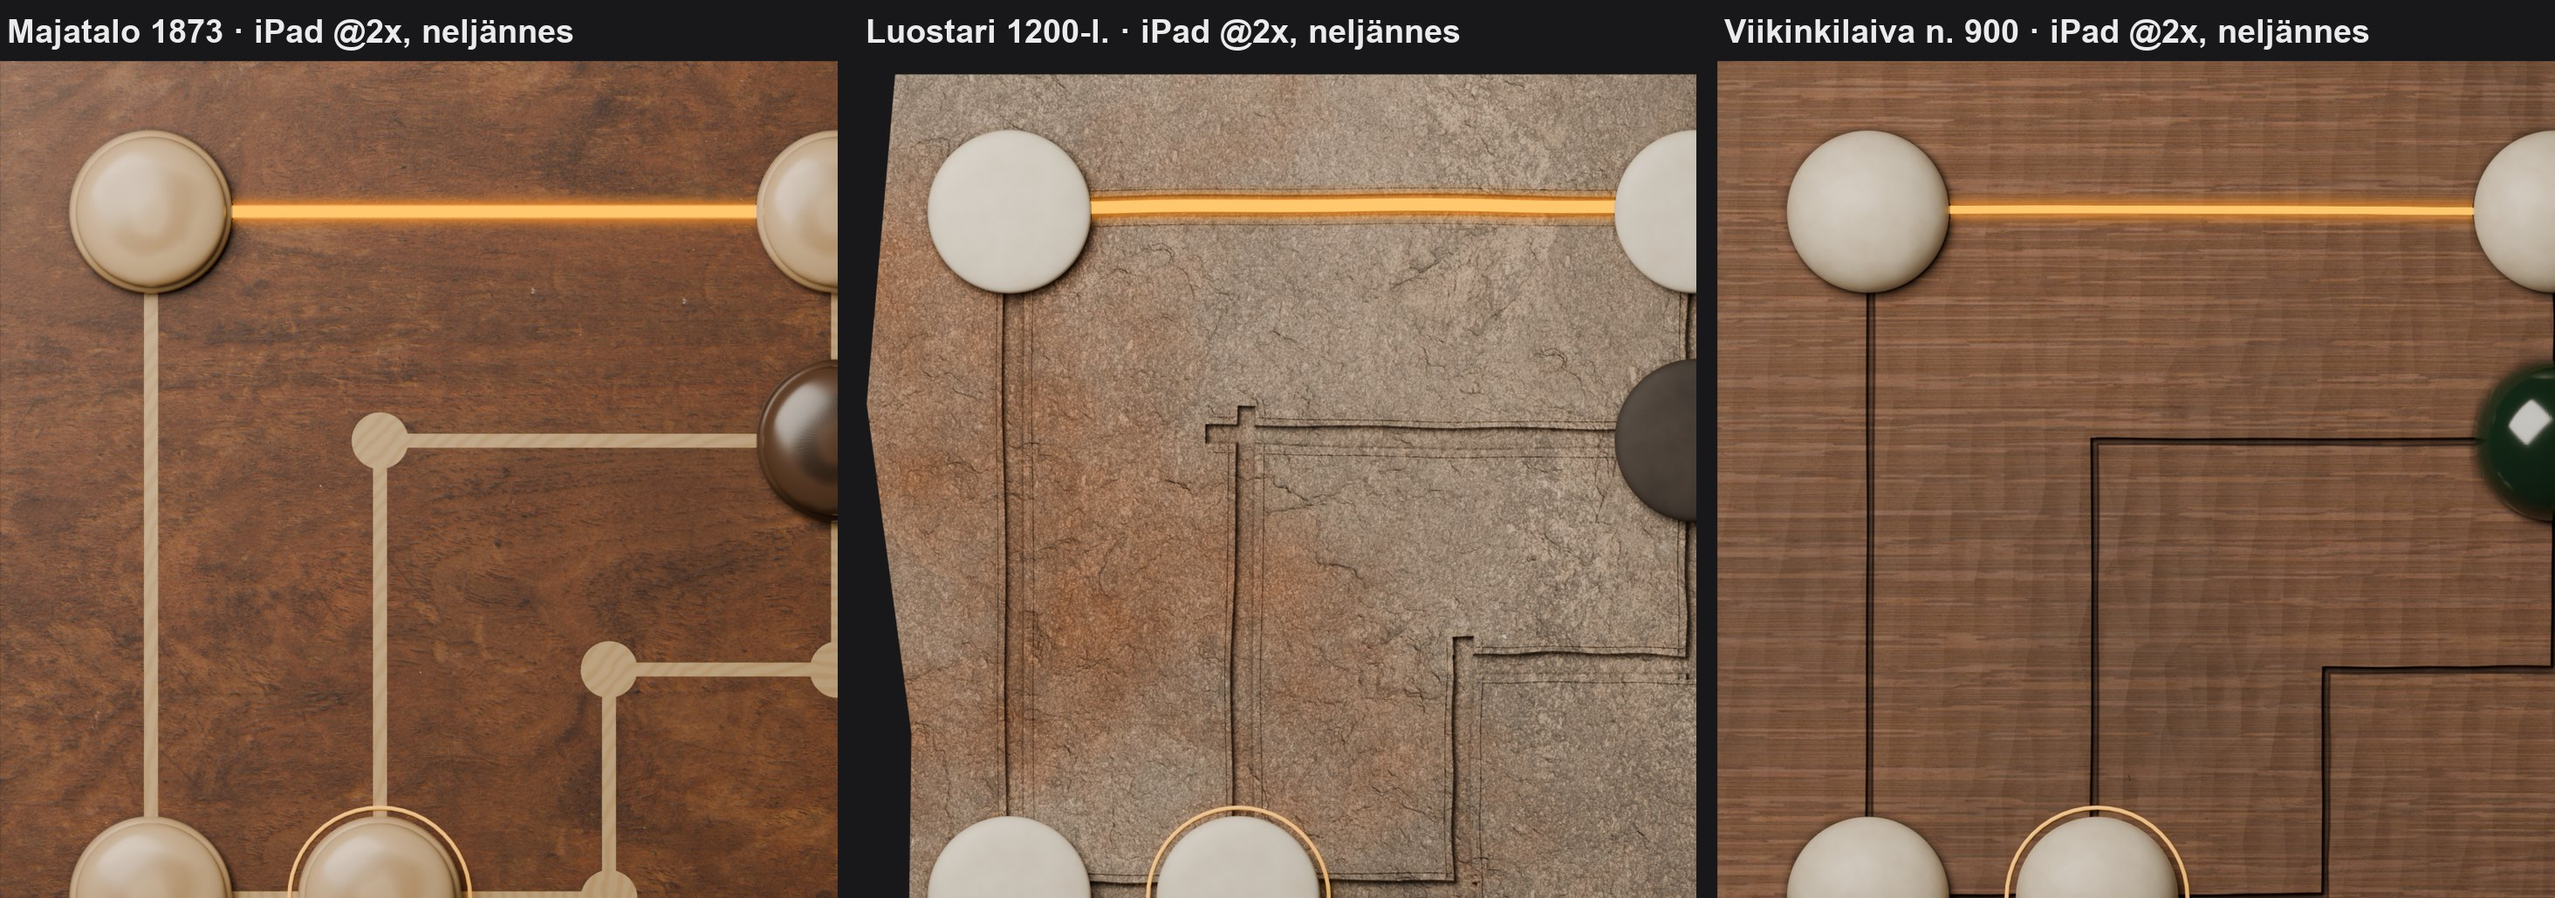
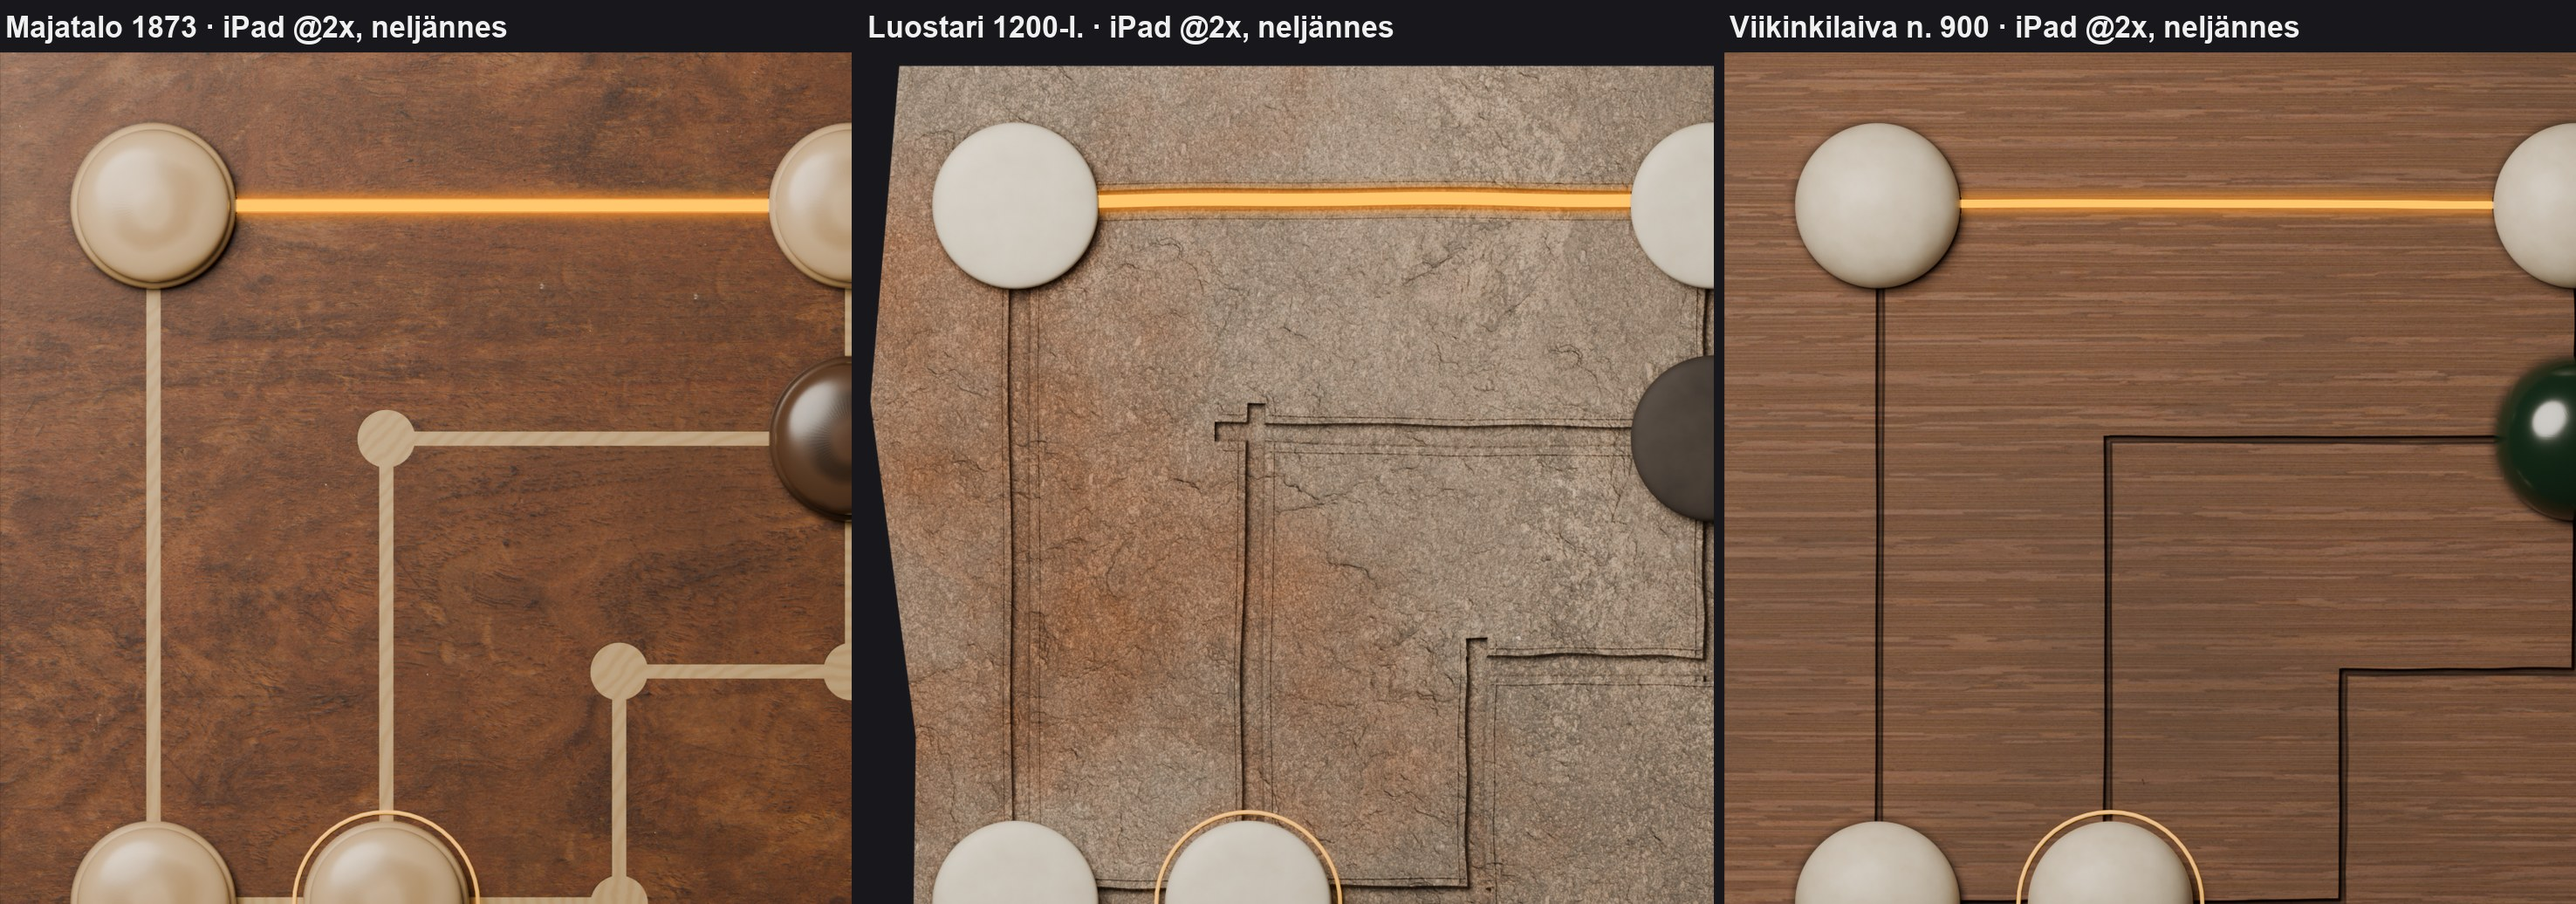
Linnanrakentaja: myllyn laudat v2 — pyöreä avainvalo (lasin kiilto), viikinkitammen kirveenjäljet hillitymmiksi; koko ketju mylly_laudat.sh:lla; mallikuvat ja kerroskoe uudelleen

diff --git a/tools/linssit/blender/mylly_lauta.py b/tools/linssit/blender/mylly_lauta.py
@@ -148,8 +148,8 @@ def lauta_viikinkilaiva():
     vm.inputs['Rotation'].default_value = (0, 0, 0.06)
     nt.links.new(tc.outputs['Object'], vm.inputs['Vector'])
     vo = nt.nodes.new('ShaderNodeTexVoronoi'); vo.feature = 'F1'; vo.distance = 'EUCLIDEAN'
-    vo.inputs['Randomness'].default_value = 0.8; nt.links.new(vm.outputs['Vector'], vo.inputs['Vector'])
-    bu = nt.nodes.new('ShaderNodeBump'); bu.inputs['Strength'].default_value = 0.35; bu.inputs['Distance'].default_value = 0.008
+    vo.inputs['Randomness'].default_value = 1.0; nt.links.new(vm.outputs['Vector'], vo.inputs['Vector'])
+    bu = nt.nodes.new('ShaderNodeBump'); bu.inputs['Strength'].default_value = 0.12;   # v2: 0,35 toistui aaltokuviona bu.inputs['Distance'].default_value = 0.008
     nt.links.new(vo.outputs['Distance'], bu.inputs['Height']); nt.links.new(_normaali(nt, k, 0.9), bu.inputs['Normal'])
     nt.links.new(bu.outputs['Normal'], b.inputs['Normal'])
     return m
@@ -191,7 +191,7 @@ def lasi(nimi, vari):
     näyttäisi irrallisessa nappulakuvassa taustan harmaana renkaana laudan päällä."""
     m, nt, b = _solmut(nimi)
     b.inputs['Base Color'].default_value = (*vari, 1); b.inputs['Roughness'].default_value = 0.14
-    b.inputs['Coat Weight'].default_value = 1.0; b.inputs['Coat Roughness'].default_value = 0.12; b.inputs['IOR'].default_value = 1.52
+    b.inputs['Coat Weight'].default_value = 1.0; b.inputs['Coat Roughness'].default_value = 0.22; b.inputs['IOR'].default_value = 1.52
     return m
 
 
@@ -382,7 +382,7 @@ def valot():
     w = bpy.data.worlds.new('w'); sc.world = w; w.use_nodes = True
     w.node_tree.nodes['Background'].inputs['Color'].default_value = (0.30, 0.26, 0.22, 1)
     w.node_tree.nodes['Background'].inputs['Strength'].default_value = 0.35
-    d = bpy.data.lights.new('avain', 'AREA'); d.energy = 42; d.size = 1.2; d.color = (1.0, 0.92, 0.82)
+    d = bpy.data.lights.new('avain', 'AREA'); d.energy = 42; d.shape = 'DISK'; d.size = 1.2; d.color = (1.0, 0.92, 0.82)   # v2: pyöreä → lasin kiilto ei neliönä
     o = bpy.data.objects.new('avain', d); sc.collection.objects.link(o)
     o.location = (-0.9, 0.9, 1.6); o.rotation_euler = (Vector((0, 0, 0)) - o.location).to_track_quat('-Z', 'Y').to_euler()
 

diff --git a/docs/raportit/mylly-laudat-20261001.md b/docs/raportit/mylly-laudat-20261001.md
@@ -54,7 +54,9 @@ esikuvien mukaan, koska niistä tulee ansaittavia esineitä. Kaikilla kolmella l
 - Nappulat, upotus, lasi, luu ja savi ovat proseduraalisia materiaaleja.
 
 ## Kerrokset (Siirtosepän speksi 1.10.)
-Kansio `/Users/Shared/Claude/proto-3d/_valmiit/mylly-laudat/v1/`. Kaikki tiedostot ovat suoran alfan PNG:itä.
+Kansio `/Users/Shared/Claude/proto-3d/_valmiit/mylly-laudat/v2/` (3.10.: pyöreä avainvalo → lasin kiilto ei neliönä, viikinkitammen
+kirveenjäljet hillitymmiksi, koska toistuivat aaltokuviona; v1 ennallaan). Kaikki tiedostot ovat suoran alfan PNG:itä.
+Koko ketju yhdellä ajolla: `tools/linssit/blender/mylly_laudat.sh <kansio> [näytteitä]` (kerrokset, jälkikäsittely, mallikuvat, SHA256SUMS).
 - `lauta-<tunnus>.png`, 2048²: lauta, urat ja pisteet.
 - `hehku-<tunnus>.png`, 2048²: kaikkien 16 myllyviivan kultahehku. Koodi rajaa yhden myllyn suorakaiteella
   (myllyn kolmen pisteen rajat ± 0,03 laudasta). Ristiviivojen vuoto jää nappuloiden alle.
